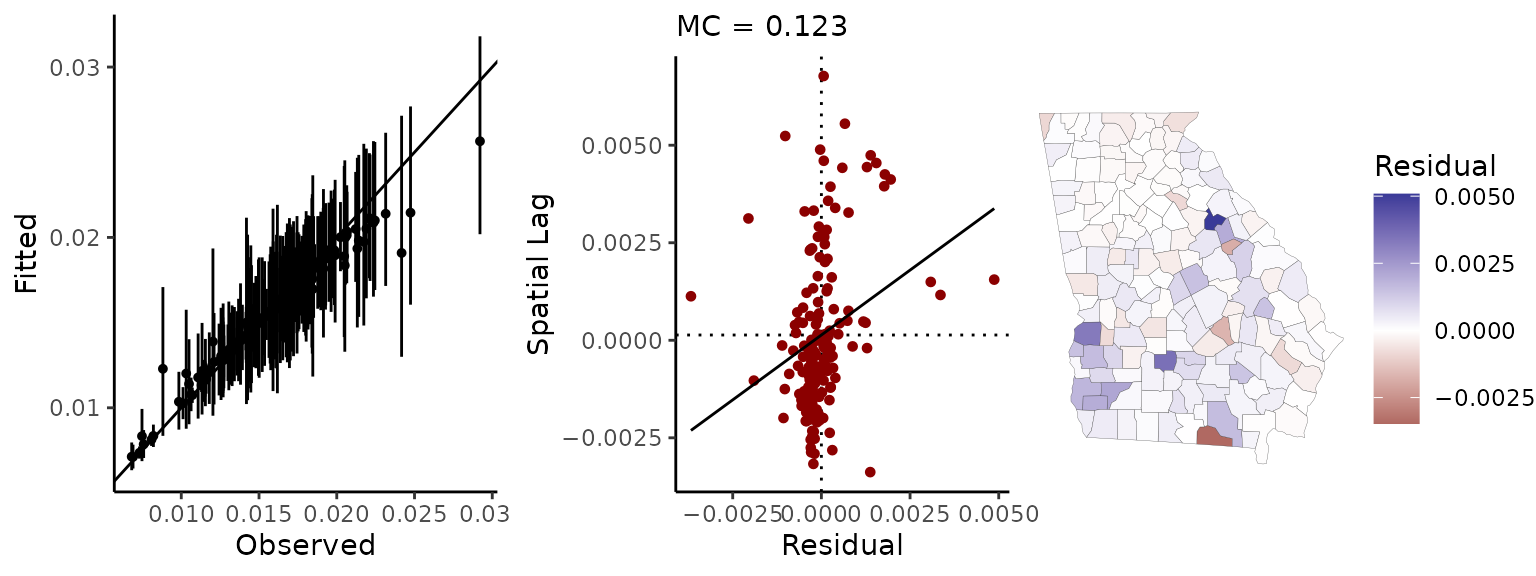
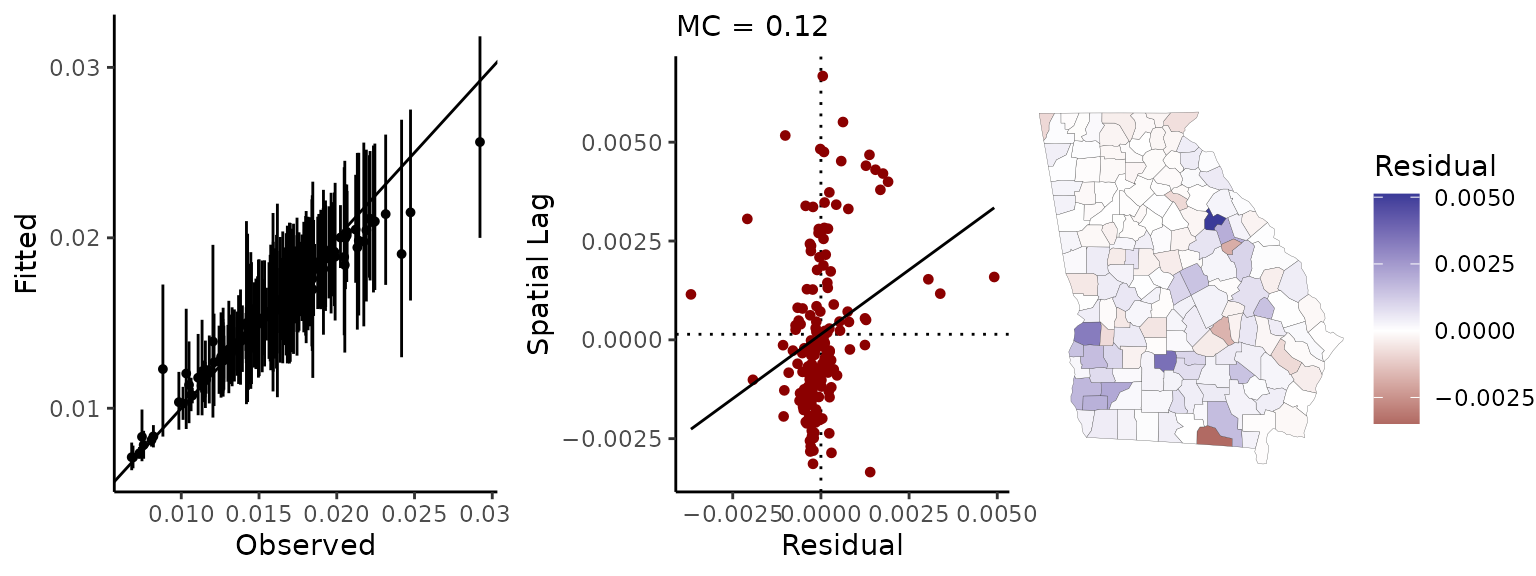
fix typo

diff --git a/docs/articles/spatial-me-models.html b/docs/articles/spatial-me-models.html
@@ -213,18 +213,21 @@
 <span><span class="co">## 1 10        0     3</span></span>
 <span><span class="co">##   lower upper</span></span>
 <span><span class="co">## 1  -1.7     1</span></span></code></pre>
+<pre><code><span><span class="co">## Warning: Bulk Effective Samples Size (ESS) is too low, indicating posterior means and medians may be unreliable.</span></span>
+<span><span class="co">## Running the chains for more iterations may help. See</span></span>
+<span><span class="co">## https://mc-stan.org/misc/warnings.html#bulk-ess</span></span></code></pre>
 <pre><code><span><span class="co">## Warning: Tail Effective Samples Size (ESS) is too low, indicating posterior variances and tail quantiles may be unreliable.</span></span>
 <span><span class="co">## Running the chains for more iterations may help. See</span></span>
 <span><span class="co">## https://mc-stan.org/misc/warnings.html#tail-ess</span></span></code></pre>
-<div class="sourceCode" id="cb15"><pre class="downlit sourceCode r">
+<div class="sourceCode" id="cb16"><pre class="downlit sourceCode r">
 <code class="sourceCode R"><span><span class="fu"><a href="https://rdrr.io/r/base/print.html" class="external-link">print</a></span><span class="op">(</span><span class="va">fit</span><span class="op">)</span></span></code></pre></div>
 <pre><code><span><span class="co">## Spatial Model Results </span></span>
 <span><span class="co">## Formula: deaths.male ~ offset(log(pop.at.risk.male)) + insurance</span></span>
 <span><span class="co">## Spatial method (outcome):  CAR </span></span>
 <span><span class="co">## Likelihood function:  poisson </span></span>
 <span><span class="co">## Link function:  log </span></span>
-<span><span class="co">## Residual Moran Coefficient:  -0.003397692 </span></span>
-<span><span class="co">## WAIC:  1316.68 </span></span>
+<span><span class="co">## Residual Moran Coefficient:  -0.0003923077 </span></span>
+<span><span class="co">## WAIC:  1317.89 </span></span>
 <span><span class="co">## Observations:  159 </span></span>
 <span><span class="co">## Data models (ME): insurance</span></span>
 <span><span class="co">##  Data model (ME prior): CAR (auto Gaussian)</span></span>
@@ -233,18 +236,18 @@
 <span><span class="co">## post-warmup draws per chain=325, total post-warmup draws=1300.</span></span>
 <span><span class="co">## </span></span>
 <span><span class="co">##             mean se_mean    sd   2.5%    25%    50%    75%  97.5% n_eff  Rhat</span></span>
-<span><span class="co">## intercept -4.166   0.004 0.071 -4.290 -4.197 -4.166 -4.131 -4.013   315 1.016</span></span>
-<span><span class="co">## insurance -2.749   0.020 0.753 -4.228 -3.239 -2.768 -2.258 -1.283  1402 1.000</span></span>
-<span><span class="co">## car_rho    0.869   0.003 0.090  0.650  0.819  0.883  0.934  0.990   754 1.001</span></span>
-<span><span class="co">## car_scale  0.447   0.001 0.034  0.384  0.424  0.445  0.469  0.521  1012 0.998</span></span>
+<span><span class="co">## intercept -4.164   0.002 0.055 -4.274 -4.195 -4.163 -4.131 -4.048   871 1.000</span></span>
+<span><span class="co">## insurance -2.734   0.020 0.744 -4.175 -3.233 -2.754 -2.232 -1.241  1381 1.001</span></span>
+<span><span class="co">## car_rho    0.866   0.003 0.089  0.649  0.817  0.881  0.933  0.984   863 1.002</span></span>
+<span><span class="co">## car_scale  0.448   0.001 0.033  0.389  0.425  0.447  0.471  0.516   790 1.002</span></span>
 <span><span class="co">## </span></span>
-<span><span class="co">## Samples were drawn using NUTS(diag_e) at Mon Nov 13 20:11:18 2023.</span></span>
+<span><span class="co">## Samples were drawn using NUTS(diag_e) at Tue Nov 21 17:28:45 2023.</span></span>
 <span><span class="co">## For each parameter, n_eff is a crude measure of effective sample size,</span></span>
 <span><span class="co">## and Rhat is the potential scale reduction factor on split chains (at </span></span>
 <span><span class="co">## convergence, Rhat=1).</span></span></code></pre>
 <p>The CAR models in <strong>geostan</strong> can be highly efficient in terms of MCMC sampling, but the required number of iterations will depend on many characteristics of the model and data. Often the default <code>iter = 2000</code> is more than sufficient (with <code>cores = 4</code>). To speed up sampling with multi-core processing, use <code>cores = 4</code> (to sample 4 chains in parallel).</p>
 <p>In the following section, methods for examining MCMC samples of the modeled covariate values <span class="math inline">\(\boldsymbol x\)</span> will be illustrated. Note that the process of storing MCMC samples for <span class="math inline">\(\boldsymbol x\)</span> can become computationally burdensome if you have multiple covariates and moderately large N. If you do not need the samples of <span class="math inline">\(\boldsymbol x\)</span> you can use the <code>slim</code> argument, as in:</p>
-<div class="sourceCode" id="cb17"><pre class="downlit sourceCode r">
+<div class="sourceCode" id="cb18"><pre class="downlit sourceCode r">
 <code class="sourceCode R"><span><span class="va">fit</span> <span class="op">&lt;-</span> <span class="fu"><a href="../reference/stan_car.html">stan_car</a></span><span class="op">(</span><span class="va">deaths.male</span> <span class="op">~</span> <span class="fu"><a href="https://rdrr.io/r/stats/offset.html" class="external-link">offset</a></span><span class="op">(</span><span class="fu"><a href="https://rdrr.io/r/base/Log.html" class="external-link">log</a></span><span class="op">(</span><span class="va">pop.at.risk.male</span><span class="op">)</span><span class="op">)</span> <span class="op">+</span> <span class="va">insurance</span>,</span>
 <span>                centerx <span class="op">=</span> <span class="cn">TRUE</span>,</span>
 <span>                ME <span class="op">=</span> <span class="va">ME_list</span>,</span>
@@ -262,7 +265,7 @@
 <p>First, it provides a point-interval scatter plot that compares the raw survey estimates (on the horizontal axis) to the modeled values (on the vertical axis). The (posterior) probability distributions for the modeled values are represented by their 95% credible intervals. The intervals provide a sense of the <em>quality</em> of the ACS data—if the credible intervals on the modeled value are large, this tells us that the data are not particularly reliable.</p>
 <p>The <code>me_diag</code> function also provides more direct visual depictions of the difference between the raw survey estimates <span class="math inline">\(z_i\)</span> an the modeled values <span class="math inline">\(x_i\)</span>: <span class="math display">\[\delta_i = z_i - x_i.\]</span> We want to look for any strong spatial pattern in these <span class="math inline">\(\delta_i\)</span> values, because that would be an indication of a bias. However, the magnitude of the <span class="math inline">\(\delta_i\)</span> value is important to consider—there may be a pattern, but if the amount of shrinkage is very small, that pattern may not matter. (The model returns <span class="math inline">\(M\)</span> samples from the posterior distribution of each <span class="math inline">\(x_i\)</span>; or, indexing by MCMC sample <span class="math inline">\(x_i^m\)</span> (<span class="math inline">\(m\)</span> is an index, not an exponent). The reported <span class="math inline">\(\delta_i\)</span> values is the MCMC mean <span class="math inline">\(\delta_i = \frac{1}{M} \sum_m z_i - x_i^m\)</span>.)</p>
 <p>Two figures are provided to evaluate patterns in <span class="math inline">\(\delta_i\)</span>: first, a Moran scatter plot and, second, a map.</p>
-<div class="sourceCode" id="cb18"><pre class="downlit sourceCode r">
+<div class="sourceCode" id="cb19"><pre class="downlit sourceCode r">
 <code class="sourceCode R"><span><span class="fu"><a href="../reference/me_diag.html">me_diag</a></span><span class="op">(</span><span class="va">fit</span>, <span class="st">'insurance'</span>, <span class="va">georgia</span><span class="op">)</span></span></code></pre></div>
 <p><img src="spatial-me-models_files/figure-html/unnamed-chunk-10-1.png" width="768" style="display: block; margin: auto;"></p>
 <p>In this case, the results do not look too concerning insofar as there are no conspicuous patterns. However, a number of the credible intervals on the modeled values are large, which indicates low data reliability. The fact that some of the <span class="math inline">\(\delta_i\)</span> values are substantial also points to low data quality for those estimates.</p>
@@ -272,54 +275,54 @@
 </h3>
 <p><strong>geostan</strong> consists of pre-compiled Stan models, and users can always access the Markov chain Monte Carlo (MCMC) samples returned by Stan. When extracted as a matrix of samples (as below), each row of the matrix represents a draw from the joint probability distribution for all model parameters, and each column consists of samples from the marginal distribution of each parameter.</p>
 <p>The ME models return samples for <span class="math inline">\(x_i\)</span> as well as the model parameters <span class="math inline">\(\mu\)</span> (“mu_x_true”), <span class="math inline">\(\rho\)</span> (“car_rho_x_true”), and <span class="math inline">\(\tau\)</span> (“sigma_x_true”). We can access these using <code>as.matrix</code> (also <code>as.array</code> and <code>as.data.frame</code>).</p>
-<div class="sourceCode" id="cb19"><pre class="downlit sourceCode r">
+<div class="sourceCode" id="cb20"><pre class="downlit sourceCode r">
 <code class="sourceCode R"><span><span class="va">mu.x</span> <span class="op">&lt;-</span> <span class="fu"><a href="https://rdrr.io/r/base/matrix.html" class="external-link">as.matrix</a></span><span class="op">(</span><span class="va">fit</span>, pars <span class="op">=</span> <span class="st">"mu_x_true"</span><span class="op">)</span></span>
 <span><span class="fu"><a href="https://rdrr.io/r/base/dim.html" class="external-link">dim</a></span><span class="op">(</span><span class="va">mu.x</span><span class="op">)</span></span></code></pre></div>
 <pre><code><span><span class="co">## [1] 1300    1</span></span></code></pre>
-<div class="sourceCode" id="cb21"><pre class="downlit sourceCode r">
+<div class="sourceCode" id="cb22"><pre class="downlit sourceCode r">
 <code class="sourceCode R"><span><span class="fu"><a href="https://rdrr.io/r/utils/head.html" class="external-link">head</a></span><span class="op">(</span><span class="va">mu.x</span><span class="op">)</span></span></code></pre></div>
 <pre><code><span><span class="co">##           parameters</span></span>
 <span><span class="co">## iterations mu_x_true[1]</span></span>
-<span><span class="co">##       [1,]     1.830329</span></span>
-<span><span class="co">##       [2,]     1.817700</span></span>
-<span><span class="co">##       [3,]     1.728989</span></span>
-<span><span class="co">##       [4,]     1.840131</span></span>
-<span><span class="co">##       [5,]     1.818415</span></span>
-<span><span class="co">##       [6,]     1.775609</span></span></code></pre>
-<div class="sourceCode" id="cb23"><pre class="downlit sourceCode r">
+<span><span class="co">##       [1,]     1.687673</span></span>
+<span><span class="co">##       [2,]     1.688899</span></span>
+<span><span class="co">##       [3,]     1.727704</span></span>
+<span><span class="co">##       [4,]     1.888632</span></span>
+<span><span class="co">##       [5,]     1.719567</span></span>
+<span><span class="co">##       [6,]     1.902711</span></span></code></pre>
+<div class="sourceCode" id="cb24"><pre class="downlit sourceCode r">
 <code class="sourceCode R"><span><span class="fu"><a href="https://rdrr.io/r/base/mean.html" class="external-link">mean</a></span><span class="op">(</span><span class="va">mu.x</span><span class="op">)</span></span></code></pre></div>
-<pre><code><span><span class="co">## [1] 1.792244</span></span></code></pre>
+<pre><code><span><span class="co">## [1] 1.795267</span></span></code></pre>
 <p>We can visualize these using <code>plot</code> or print a summary:</p>
-<div class="sourceCode" id="cb25"><pre class="downlit sourceCode r">
+<div class="sourceCode" id="cb26"><pre class="downlit sourceCode r">
 <code class="sourceCode R"><span><span class="fu"><a href="https://rdrr.io/r/base/print.html" class="external-link">print</a></span><span class="op">(</span><span class="va">fit</span><span class="op">$</span><span class="va">stanfit</span>, pars <span class="op">=</span> <span class="fu"><a href="https://rdrr.io/r/base/c.html" class="external-link">c</a></span><span class="op">(</span><span class="st">"mu_x_true"</span>, <span class="st">"car_rho_x_true"</span>, <span class="st">"sigma_x_true"</span><span class="op">)</span><span class="op">)</span></span></code></pre></div>
 <pre><code><span><span class="co">## Inference for Stan model: foundation.</span></span>
 <span><span class="co">## 4 chains, each with iter=650; warmup=325; thin=1; </span></span>
 <span><span class="co">## post-warmup draws per chain=325, total post-warmup draws=1300.</span></span>
 <span><span class="co">## </span></span>
 <span><span class="co">##                   mean se_mean   sd 2.5%  25%  50%  75% 97.5% n_eff Rhat</span></span>
-<span><span class="co">## mu_x_true[1]      1.79       0 0.08 1.65 1.75 1.79 1.83  1.95   633    1</span></span>
-<span><span class="co">## car_rho_x_true[1] 0.91       0 0.07 0.75 0.87 0.92 0.96  0.99   996    1</span></span>
-<span><span class="co">## sigma_x_true[1]   0.49       0 0.04 0.42 0.46 0.48 0.51  0.56  1072    1</span></span>
+<span><span class="co">## mu_x_true[1]      1.80       0 0.09 1.65 1.75 1.79 1.83  1.97   520    1</span></span>
+<span><span class="co">## car_rho_x_true[1] 0.91       0 0.06 0.75 0.87 0.92 0.96  0.99  1179    1</span></span>
+<span><span class="co">## sigma_x_true[1]   0.48       0 0.04 0.42 0.46 0.48 0.51  0.56  1405    1</span></span>
 <span><span class="co">## </span></span>
-<span><span class="co">## Samples were drawn using NUTS(diag_e) at Mon Nov 13 20:11:18 2023.</span></span>
+<span><span class="co">## Samples were drawn using NUTS(diag_e) at Tue Nov 21 17:28:45 2023.</span></span>
 <span><span class="co">## For each parameter, n_eff is a crude measure of effective sample size,</span></span>
 <span><span class="co">## and Rhat is the potential scale reduction factor on split chains (at </span></span>
 <span><span class="co">## convergence, Rhat=1).</span></span></code></pre>
 <p>To extract samples from the joint probability distribution for <span class="math inline">\(\boldsymbol x\)</span>, use the generic parameter name “x_true”:</p>
-<div class="sourceCode" id="cb27"><pre class="downlit sourceCode r">
+<div class="sourceCode" id="cb28"><pre class="downlit sourceCode r">
 <code class="sourceCode R"><span><span class="va">x</span> <span class="op">&lt;-</span> <span class="fu"><a href="https://rdrr.io/r/base/matrix.html" class="external-link">as.matrix</a></span><span class="op">(</span><span class="va">fit</span>, pars <span class="op">=</span> <span class="st">"x_true"</span><span class="op">)</span></span>
 <span><span class="fu"><a href="https://rdrr.io/r/base/dim.html" class="external-link">dim</a></span><span class="op">(</span><span class="va">x</span><span class="op">)</span></span></code></pre></div>
 <pre><code><span><span class="co">## [1] 1300  159</span></span></code></pre>
 <p>If we wanted to calculate the mean of each of these marginal distributions (one for every <span class="math inline">\(x_i\)</span>), we could use <code>apply</code> with <code>MARGIN = 2</code> to summarize by column:</p>
-<div class="sourceCode" id="cb29"><pre class="downlit sourceCode r">
+<div class="sourceCode" id="cb30"><pre class="downlit sourceCode r">
 <code class="sourceCode R"><span><span class="va">x.mu</span> <span class="op">&lt;-</span> <span class="fu"><a href="https://rdrr.io/r/base/apply.html" class="external-link">apply</a></span><span class="op">(</span><span class="va">x</span>, <span class="fl">2</span>, <span class="va">mean</span><span class="op">)</span></span>
 <span><span class="fu"><a href="https://rdrr.io/r/utils/head.html" class="external-link">head</a></span><span class="op">(</span><span class="va">x.mu</span><span class="op">)</span></span></code></pre></div>
 <pre><code><span><span class="co">## x_insurance[1] x_insurance[2] x_insurance[3] x_insurance[4] x_insurance[5] </span></span>
-<span><span class="co">##      0.8367161      0.8002348      0.8516637      0.8522715      0.9177878 </span></span>
+<span><span class="co">##      0.8364686      0.7999092      0.8519479      0.8521623      0.9180310 </span></span>
 <span><span class="co">## x_insurance[6] </span></span>
-<span><span class="co">##      0.8702328</span></span></code></pre>
+<span><span class="co">##      0.8700734</span></span></code></pre>
 <p>The vector <code>x.mu</code> contains estimates (posterior means) for <span class="math inline">\(x_i\)</span>. We might want to use these to plot the residuals or fitted values against the predictor:</p>
-<div class="sourceCode" id="cb31"><pre class="downlit sourceCode r">
+<div class="sourceCode" id="cb32"><pre class="downlit sourceCode r">
 <code class="sourceCode R"><span><span class="va">rs</span> <span class="op">&lt;-</span> <span class="fu"><a href="https://rdrr.io/r/stats/residuals.html" class="external-link">resid</a></span><span class="op">(</span><span class="va">fit</span><span class="op">)</span><span class="op">$</span><span class="va">mean</span></span>
 <span><span class="fu"><a href="https://rdrr.io/r/graphics/plot.default.html" class="external-link">plot</a></span><span class="op">(</span><span class="va">x.mu</span>, <span class="va">rs</span><span class="op">)</span></span>
 <span><span class="fu"><a href="https://rdrr.io/r/graphics/abline.html" class="external-link">abline</a></span><span class="op">(</span>h <span class="op">=</span> <span class="fl">0</span><span class="op">)</span></span></code></pre></div>
@@ -330,7 +333,7 @@
 <h2 id="non-spatial-me-models">Non-spatial ME models<a class="anchor" aria-label="anchor" href="#non-spatial-me-models"></a>
 </h2>
 <p>If the <code>ME</code> list doesn’t have a slot with <code>car_parts</code>, <strong>geostan</strong> will automatically use a non-spatial Student’s t model instead of the CAR model: <span class="math display">\[ p(\boldsymbol x | \mathcal{M}) = Student(\boldsymbol x | \nu, \mu \boldsymbol 1, \sigma) \]</span></p>
-<div class="sourceCode" id="cb32"><pre class="downlit sourceCode r">
+<div class="sourceCode" id="cb33"><pre class="downlit sourceCode r">
 <code class="sourceCode R"><span><span class="va">ME_nsp</span> <span class="op">&lt;-</span> <span class="fu"><a href="../reference/prep_me_data.html">prep_me_data</a></span><span class="op">(</span></span>
 <span>  se <span class="op">=</span> <span class="fu"><a href="https://rdrr.io/r/base/data.frame.html" class="external-link">data.frame</a></span><span class="op">(</span>insurance <span class="op">=</span> <span class="va">georgia</span><span class="op">$</span><span class="va">insurance.se</span><span class="op">)</span>,</span>
 <span>  logit <span class="op">=</span> <span class="cn">TRUE</span></span>

diff --git a/docs/articles/raster-regression.html b/docs/articles/raster-regression.html
@@ -162,8 +162,8 @@
 <span><span class="co">## </span></span>
 <span><span class="co">## SAMPLING FOR MODEL 'foundation' NOW (CHAIN 1).</span></span>
 <span><span class="co">## Chain 1: </span></span>
-<span><span class="co">## Chain 1: Gradient evaluation took 0.000784 seconds</span></span>
-<span><span class="co">## Chain 1: 1000 transitions using 10 leapfrog steps per transition would take 7.84 seconds.</span></span>
+<span><span class="co">## Chain 1: Gradient evaluation took 0.000699 seconds</span></span>
+<span><span class="co">## Chain 1: 1000 transitions using 10 leapfrog steps per transition would take 6.99 seconds.</span></span>
 <span><span class="co">## Chain 1: Adjust your expectations accordingly!</span></span>
 <span><span class="co">## Chain 1: </span></span>
 <span><span class="co">## Chain 1: </span></span>
@@ -171,15 +171,15 @@
 <span><span class="co">## Chain 1: Iteration: 251 / 500 [ 50%]  (Sampling)</span></span>
 <span><span class="co">## Chain 1: Iteration: 500 / 500 [100%]  (Sampling)</span></span>
 <span><span class="co">## Chain 1: </span></span>
-<span><span class="co">## Chain 1:  Elapsed Time: 4.16 seconds (Warm-up)</span></span>
-<span><span class="co">## Chain 1:                0.969 seconds (Sampling)</span></span>
-<span><span class="co">## Chain 1:                5.129 seconds (Total)</span></span>
+<span><span class="co">## Chain 1:  Elapsed Time: 3.945 seconds (Warm-up)</span></span>
+<span><span class="co">## Chain 1:                0.942 seconds (Sampling)</span></span>
+<span><span class="co">## Chain 1:                4.887 seconds (Total)</span></span>
 <span><span class="co">## Chain 1: </span></span>
 <span><span class="co">## </span></span>
 <span><span class="co">## SAMPLING FOR MODEL 'foundation' NOW (CHAIN 2).</span></span>
 <span><span class="co">## Chain 2: </span></span>
-<span><span class="co">## Chain 2: Gradient evaluation took 0.000536 seconds</span></span>
-<span><span class="co">## Chain 2: 1000 transitions using 10 leapfrog steps per transition would take 5.36 seconds.</span></span>
+<span><span class="co">## Chain 2: Gradient evaluation took 0.00051 seconds</span></span>
+<span><span class="co">## Chain 2: 1000 transitions using 10 leapfrog steps per transition would take 5.1 seconds.</span></span>
 <span><span class="co">## Chain 2: Adjust your expectations accordingly!</span></span>
 <span><span class="co">## Chain 2: </span></span>
 <span><span class="co">## Chain 2: </span></span>
@@ -187,15 +187,15 @@
 <span><span class="co">## Chain 2: Iteration: 251 / 500 [ 50%]  (Sampling)</span></span>
 <span><span class="co">## Chain 2: Iteration: 500 / 500 [100%]  (Sampling)</span></span>
 <span><span class="co">## Chain 2: </span></span>
-<span><span class="co">## Chain 2:  Elapsed Time: 1.646 seconds (Warm-up)</span></span>
-<span><span class="co">## Chain 2:                0.845 seconds (Sampling)</span></span>
-<span><span class="co">## Chain 2:                2.491 seconds (Total)</span></span>
+<span><span class="co">## Chain 2:  Elapsed Time: 1.598 seconds (Warm-up)</span></span>
+<span><span class="co">## Chain 2:                0.853 seconds (Sampling)</span></span>
+<span><span class="co">## Chain 2:                2.451 seconds (Total)</span></span>
 <span><span class="co">## Chain 2: </span></span>
 <span><span class="co">## </span></span>
 <span><span class="co">## SAMPLING FOR MODEL 'foundation' NOW (CHAIN 3).</span></span>
 <span><span class="co">## Chain 3: </span></span>
-<span><span class="co">## Chain 3: Gradient evaluation took 0.000553 seconds</span></span>
-<span><span class="co">## Chain 3: 1000 transitions using 10 leapfrog steps per transition would take 5.53 seconds.</span></span>
+<span><span class="co">## Chain 3: Gradient evaluation took 0.00054 seconds</span></span>
+<span><span class="co">## Chain 3: 1000 transitions using 10 leapfrog steps per transition would take 5.4 seconds.</span></span>
 <span><span class="co">## Chain 3: Adjust your expectations accordingly!</span></span>
 <span><span class="co">## Chain 3: </span></span>
 <span><span class="co">## Chain 3: </span></span>
@@ -203,15 +203,15 @@
 <span><span class="co">## Chain 3: Iteration: 251 / 500 [ 50%]  (Sampling)</span></span>
 <span><span class="co">## Chain 3: Iteration: 500 / 500 [100%]  (Sampling)</span></span>
 <span><span class="co">## Chain 3: </span></span>
-<span><span class="co">## Chain 3:  Elapsed Time: 1.62 seconds (Warm-up)</span></span>
-<span><span class="co">## Chain 3:                0.918 seconds (Sampling)</span></span>
-<span><span class="co">## Chain 3:                2.538 seconds (Total)</span></span>
+<span><span class="co">## Chain 3:  Elapsed Time: 1.632 seconds (Warm-up)</span></span>
+<span><span class="co">## Chain 3:                0.935 seconds (Sampling)</span></span>
+<span><span class="co">## Chain 3:                2.567 seconds (Total)</span></span>
 <span><span class="co">## Chain 3: </span></span>
 <span><span class="co">## </span></span>
 <span><span class="co">## SAMPLING FOR MODEL 'foundation' NOW (CHAIN 4).</span></span>
 <span><span class="co">## Chain 4: </span></span>
-<span><span class="co">## Chain 4: Gradient evaluation took 0.000508 seconds</span></span>
-<span><span class="co">## Chain 4: 1000 transitions using 10 leapfrog steps per transition would take 5.08 seconds.</span></span>
+<span><span class="co">## Chain 4: Gradient evaluation took 0.000537 seconds</span></span>
+<span><span class="co">## Chain 4: 1000 transitions using 10 leapfrog steps per transition would take 5.37 seconds.</span></span>
 <span><span class="co">## Chain 4: Adjust your expectations accordingly!</span></span>
 <span><span class="co">## Chain 4: </span></span>
 <span><span class="co">## Chain 4: </span></span>
@@ -219,9 +219,9 @@
 <span><span class="co">## Chain 4: Iteration: 251 / 500 [ 50%]  (Sampling)</span></span>
 <span><span class="co">## Chain 4: Iteration: 500 / 500 [100%]  (Sampling)</span></span>
 <span><span class="co">## Chain 4: </span></span>
-<span><span class="co">## Chain 4:  Elapsed Time: 1.801 seconds (Warm-up)</span></span>
-<span><span class="co">## Chain 4:                0.918 seconds (Sampling)</span></span>
-<span><span class="co">## Chain 4:                2.719 seconds (Total)</span></span>
+<span><span class="co">## Chain 4:  Elapsed Time: 1.8 seconds (Warm-up)</span></span>
+<span><span class="co">## Chain 4:                0.913 seconds (Sampling)</span></span>
+<span><span class="co">## Chain 4:                2.713 seconds (Total)</span></span>
 <span><span class="co">## Chain 4:</span></span></code></pre>
 <div class="sourceCode" id="cb22"><pre class="downlit sourceCode r">
 <code class="sourceCode R"><span><span class="fu"><a href="https://rdrr.io/r/base/print.html" class="external-link">print</a></span><span class="op">(</span><span class="va">fit</span><span class="op">)</span>      </span></code></pre></div>
@@ -243,7 +243,7 @@
 <span><span class="co">## sar_rho    0.873   0.001 0.017  0.838  0.862  0.874  0.884  0.904   676 1.000</span></span>
 <span><span class="co">## sar_scale  0.312   0.000 0.007  0.298  0.307  0.312  0.316  0.327   876 1.000</span></span>
 <span><span class="co">## </span></span>
-<span><span class="co">## Samples were drawn using NUTS(diag_e) at Mon Nov 13 20:11:02 2023.</span></span>
+<span><span class="co">## Samples were drawn using NUTS(diag_e) at Tue Nov 21 17:28:29 2023.</span></span>
 <span><span class="co">## For each parameter, n_eff is a crude measure of effective sample size,</span></span>
 <span><span class="co">## and Rhat is the potential scale reduction factor on split chains (at </span></span>
 <span><span class="co">## convergence, Rhat=1).</span></span></code></pre>

diff --git a/docs/articles/measuring-sa.html b/docs/articles/measuring-sa.html
@@ -269,8 +269,8 @@
 <span><span class="co">#&gt; Spatial method (outcome):  Exchangeable </span></span>
 <span><span class="co">#&gt; Likelihood function:  poisson </span></span>
 <span><span class="co">#&gt; Link function:  log </span></span>
-<span><span class="co">#&gt; Residual Moran Coefficient:  0.02397425 </span></span>
-<span><span class="co">#&gt; WAIC:  1318.96 </span></span>
+<span><span class="co">#&gt; Residual Moran Coefficient:  0.0223715 </span></span>
+<span><span class="co">#&gt; WAIC:  1318.17 </span></span>
 <span><span class="co">#&gt; Observations:  159 </span></span>
 <span><span class="co">#&gt; Data models (ME): none</span></span>
 <span><span class="co">#&gt; Inference for Stan model: foundation.</span></span>
@@ -278,10 +278,10 @@
 <span><span class="co">#&gt; post-warmup draws per chain=1000, total post-warmup draws=4000.</span></span>
 <span><span class="co">#&gt; </span></span>
 <span><span class="co">#&gt;             mean se_mean    sd   2.5%    25%    50%    75%  97.5% n_eff  Rhat</span></span>
-<span><span class="co">#&gt; intercept -4.180   0.001 0.021 -4.222 -4.194 -4.179 -4.165 -4.139   262 1.017</span></span>
-<span><span class="co">#&gt; alpha_tau  0.247   0.000 0.016  0.218  0.236  0.247  0.258  0.279  4325 1.000</span></span>
+<span><span class="co">#&gt; intercept -4.179   0.001 0.021 -4.219 -4.194 -4.180 -4.166 -4.135   297 1.022</span></span>
+<span><span class="co">#&gt; alpha_tau  0.247   0.000 0.016  0.219  0.237  0.247  0.257  0.282  4193 1.000</span></span>
 <span><span class="co">#&gt; </span></span>
-<span><span class="co">#&gt; Samples were drawn using NUTS(diag_e) at Mon Nov 13 20:10:28 2023.</span></span>
+<span><span class="co">#&gt; Samples were drawn using NUTS(diag_e) at Tue Nov 21 17:27:56 2023.</span></span>
 <span><span class="co">#&gt; For each parameter, n_eff is a crude measure of effective sample size,</span></span>
 <span><span class="co">#&gt; and Rhat is the potential scale reduction factor on split chains (at </span></span>
 <span><span class="co">#&gt; convergence, Rhat=1).</span></span></code></pre></div>

diff --git a/docs/reference/stan_car.html b/docs/reference/stan_car.html
@@ -309,7 +309,7 @@ To obtain "raw" residuals (\(y - \mu\)), use <code>residuals(fit, detrend = FALS
 <p>For <code>family = poisson()</code>, the model is specified as:
 $$y \sim Poisson(e^{O + \lambda})$$
 $$\lambda \sim Gauss(\mu, (I - \rho C)^{-1} \boldsymbol M).$$
-If the raw outcome consists of a rate \(\frac{y}{p}\) with observed counts \(y\) and denominator p (often this will be the size of the population at risk), then the offset term \(O=log(p)\) is the log of the denominator.</p>
+If the raw outcome consists of a rate \(\frac{y}{p}\) with observed counts \(y\) and denominator \(p\) (often this will be the size of the population at risk), then the offset term \(O=log(p)\) is the log of the denominator.</p>
 <p>This is often written (equivalently) as:
 $$y \sim Poisson(e^{O + \mu + \phi})$$
 $$\phi \sim Gauss(0, (I - \rho C)^{-1} \boldsymbol M).$$

diff --git a/docs/reference/stan_sar.html b/docs/reference/stan_sar.html
@@ -301,7 +301,7 @@ To obtain "raw" residuals (\(y - \mu\)), use <code>residuals(fit, detrend = FALS
 <p>$$y \sim Poisson(e^{O + \lambda})$$
 $$\lambda \sim Gauss(\mu, \Sigma)$$
 $$\Sigma = \sigma^2 (I - \rho W)^{-1}(I - \rho W')^{-1}.$$</p>
-<p>If the raw outcome consists of a rate \(\frac{y}{p}\) with observed counts \(y\) and denominator p (often this will be the size of the population at risk), then the offset term \(O=log(p)\) is the log of the denominator.</p>
+<p>If the raw outcome consists of a rate \(\frac{y}{p}\) with observed counts \(y\) and denominator \(p\) (often this will be the size of the population at risk), then the offset term \(O=log(p)\) is the log of the denominator.</p>
 <p>This is often written (equivalently) as:</p>
 <p>$$y \sim Poisson(e^{O + \mu + \phi})$$
 $$ \phi \sim Gauss(0, \Sigma) $$

diff --git a/NEWS.md b/NEWS.md
@@ -2,9 +2,9 @@
 
 ### Minor changes
 
-The `gamma` function has been renamed to `geostan::gamma2` to avoid conflict with `base::gamma`.
+The `gamma` function (which is available to help set prior distributions) has been renamed to `geostan::gamma2` to avoid conflict with `base::gamma`. 
 
-Some code for `geostan::stan_car` was cleaned up to avoid sending duplicate variables to the Stan model when a spatial ME (measurement error) model was used: https://github.com/ConnorDonegan/geostan/issues/17. This should not change any functionality or results. 
+Some code for `geostan::stan_car` was cleaned up to avoid sending duplicate variables to the Stan model when a spatial ME (measurement error) model was used: https://github.com/ConnorDonegan/geostan/issues/17. This should not change any functionality and there is no reason to suspect that results were ever impacted by the duplicate variables. 
 
 # geostan 0.5.2
 
